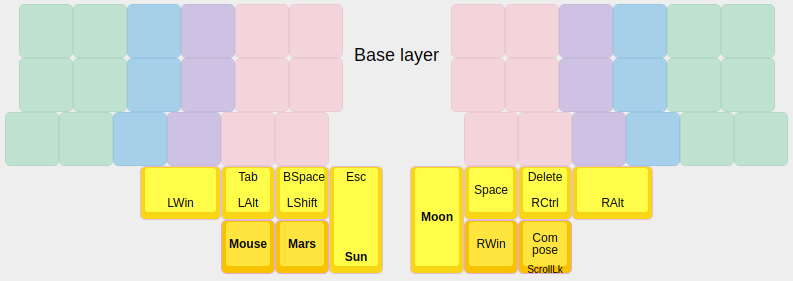
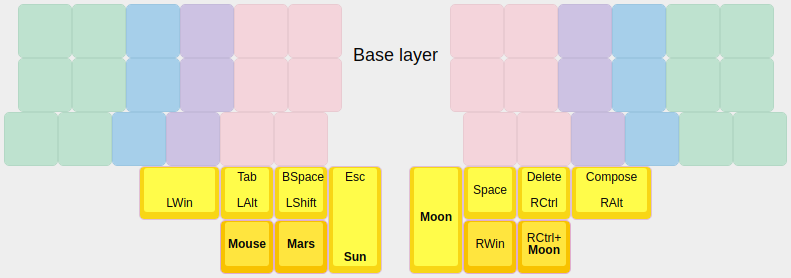
Make some layout tweaks
Accord for {} do not work in either languages. Another problem:
I type Shift to rapidly and Backspace enters as well. Fix both.

diff --git a/keymaps/default/chords.h b/keymaps/default/chords.h
@@ -1,87 +1,121 @@
 #ifndef KLAVAROG_CHORDGEN
 #define KLAVAROG_CHORDGEN
 enum combo_events {
-  combo_event_6520682086739457858, //tap_code16(RU_SHCH);
-  combo_event_2455770768751311551, //tap_code16(RU_JU);
-  combo_event_2114637924840119279, //tap_code16(KC_GRAVE);
-  combo_event_4643176359876124645, //tap_code16(RU_SH);
-  combo_event_2541380556355484790, //tap_code16(RU_JO);
-  combo_event_3759336099767838422, //tap_code16(KC_UNDS);
-  combo_event_4163067225626669251, //tap_code16(KC_UNDS);
+  combo_event_7221106290368032118, //tap_code16(RU_SHCH);
+  combo_event_5262084835235689220, //tap_code16(RU_JU);
+  combo_event_4866074708772856744, //tap_code16(KC_GRAVE);
+  combo_event_5182942735034104428, //tap_code16(RU_SH);
+  combo_event_4254755315356570871, //tap_code16(RU_JO);
+  combo_event_4625029284480707723, //tap_code16(KC_UNDS);
+  combo_event_6056952580134243859, //tap_code16(KK_LCBR);
+  combo_event_4456766911489843082, //tap_code16(KK_RCBR);
+  combo_event_5422050067313524820, //tap_code16(KC_UNDS);
+  combo_event_6934737794895982308, //tap_code16(KK_LCBR);
+  combo_event_2097007959599295537, //tap_code16(KK_RCBR);
   
 };
-const uint16_t PROGMEM combo_array_6520682086739457858[] = {
+const uint16_t PROGMEM combo_array_7221106290368032118[] = {
   RU_SOFT, RU_JA, COMBO_END
 };
-const uint16_t PROGMEM combo_array_2455770768751311551[] = {
+const uint16_t PROGMEM combo_array_5262084835235689220[] = {
   RU_JA, RU_U, COMBO_END
 };
-const uint16_t PROGMEM combo_array_2114637924840119279[] = {
+const uint16_t PROGMEM combo_array_4866074708772856744[] = {
   RU_A, RU_Y, COMBO_END
 };
-const uint16_t PROGMEM combo_array_4643176359876124645[] = {
+const uint16_t PROGMEM combo_array_5182942735034104428[] = {
   RU_Z, RU_M, COMBO_END
 };
-const uint16_t PROGMEM combo_array_2541380556355484790[] = {
+const uint16_t PROGMEM combo_array_4254755315356570871[] = {
   RU_F, RU_TS, COMBO_END
 };
-const uint16_t PROGMEM combo_array_3759336099767838422[] = {
+const uint16_t PROGMEM combo_array_4625029284480707723[] = {
   RU_JE, RU_O, RU_I, COMBO_END
 };
-const uint16_t PROGMEM combo_array_4163067225626669251[] = {
+const uint16_t PROGMEM combo_array_6056952580134243859[] = {
+  RU_D, RU_N, COMBO_END
+};
+const uint16_t PROGMEM combo_array_4456766911489843082[] = {
+  RU_SOFT, RU_JE, COMBO_END
+};
+const uint16_t PROGMEM combo_array_5422050067313524820[] = {
   KC_E, KC_O, KC_I, COMBO_END
 };
+const uint16_t PROGMEM combo_array_6934737794895982308[] = {
+  KC_D, KC_N, COMBO_END
+};
+const uint16_t PROGMEM combo_array_2097007959599295537[] = {
+  KC_F, KC_E, COMBO_END
+};
 combo_t key_combos[COMBO_COUNT] = {
-  [combo_event_6520682086739457858] = COMBO_ACTION(combo_array_6520682086739457858),
-  [combo_event_2455770768751311551] = COMBO_ACTION(combo_array_2455770768751311551),
-  [combo_event_2114637924840119279] = COMBO_ACTION(combo_array_2114637924840119279),
-  [combo_event_4643176359876124645] = COMBO_ACTION(combo_array_4643176359876124645),
-  [combo_event_2541380556355484790] = COMBO_ACTION(combo_array_2541380556355484790),
-  [combo_event_3759336099767838422] = COMBO_ACTION(combo_array_3759336099767838422),
-  [combo_event_4163067225626669251] = COMBO_ACTION(combo_array_4163067225626669251),
+  [combo_event_7221106290368032118] = COMBO_ACTION(combo_array_7221106290368032118),
+  [combo_event_5262084835235689220] = COMBO_ACTION(combo_array_5262084835235689220),
+  [combo_event_4866074708772856744] = COMBO_ACTION(combo_array_4866074708772856744),
+  [combo_event_5182942735034104428] = COMBO_ACTION(combo_array_5182942735034104428),
+  [combo_event_4254755315356570871] = COMBO_ACTION(combo_array_4254755315356570871),
+  [combo_event_4625029284480707723] = COMBO_ACTION(combo_array_4625029284480707723),
+  [combo_event_6056952580134243859] = COMBO_ACTION(combo_array_6056952580134243859),
+  [combo_event_4456766911489843082] = COMBO_ACTION(combo_array_4456766911489843082),
+  [combo_event_5422050067313524820] = COMBO_ACTION(combo_array_5422050067313524820),
+  [combo_event_6934737794895982308] = COMBO_ACTION(combo_array_6934737794895982308),
+  [combo_event_2097007959599295537] = COMBO_ACTION(combo_array_2097007959599295537),
   
 };
 void process_combo_event(uint8_t combo_index, bool pressed) {
   if (layer_state & (1 << CYRILLIC)) {
     switch (combo_index) {
-      case combo_event_6520682086739457858: {
+      case combo_event_7221106290368032118: {
         if (pressed) {
   tap_code16(RU_SHCH);
 
 }
 return;
 }
-    case combo_event_2455770768751311551: {
+    case combo_event_5262084835235689220: {
         if (pressed) {
   tap_code16(RU_JU);
 
 }
 return;
 }
-    case combo_event_2114637924840119279: {
+    case combo_event_4866074708772856744: {
         if (pressed) {
   tap_code16(KC_GRAVE);
 
 }
 return;
 }
-    case combo_event_4643176359876124645: {
+    case combo_event_5182942735034104428: {
         if (pressed) {
   tap_code16(RU_SH);
 
 }
 return;
 }
-    case combo_event_2541380556355484790: {
+    case combo_event_4254755315356570871: {
         if (pressed) {
   tap_code16(RU_JO);
 
 }
 return;
 }
-    case combo_event_3759336099767838422: {
+    case combo_event_4625029284480707723: {
         if (pressed) {
   tap_code16(KC_UNDS);
+
+}
+return;
+}
+    case combo_event_6056952580134243859: {
+        if (pressed) {
+  tap_code16(KK_LCBR);
+
+}
+return;
+}
+    case combo_event_4456766911489843082: {
+        if (pressed) {
+  tap_code16(KK_RCBR);
 
 }
 return;
@@ -92,9 +126,23 @@ return;
 }
  else if (1) {
     switch (combo_index) {
-      case combo_event_4163067225626669251: {
+      case combo_event_5422050067313524820: {
         if (pressed) {
   tap_code16(KC_UNDS);
+
+}
+return;
+}
+    case combo_event_6934737794895982308: {
+        if (pressed) {
+  tap_code16(KK_LCBR);
+
+}
+return;
+}
+    case combo_event_2097007959599295537: {
+        if (pressed) {
+  tap_code16(KK_RCBR);
 
 }
 return;

diff --git a/keymaps/default/keymap.c b/keymaps/default/keymap.c
@@ -73,18 +73,22 @@ bool process_record_user(uint16_t keycode, keyrecord_t *record) {
   KEYTIMER(M_SUN_ESC);
   KEYTIMER(M_RGUI);
   KEYTIMER(M_RCTL_DEL);
+  KEYTIMER(M_RCTL_MOON);
   switch (keycode) {
     /*       key         turn off       turn on   hold     tap */
-    KEYMATCH(M_LGUI,      _BV(CYRILLIC), 0,        KC_LGUI, 0);
-    KEYMATCH(M_LALT_TAB,  _BV(CYRILLIC), 0,        KC_LALT, KC_TAB);
-    KEYMATCH(M_LSFT_BSPC, 0,             0,        KC_LSFT, KC_BSPC);
-    KEYMATCH(M_SUN_ESC,   0,             _BV(SUN), 0,       KC_ESC);
-    KEYMATCH(M_RGUI,      _BV(CYRILLIC), 0,        KC_RGUI, 0);
-    KEYMATCH(M_RCTL_DEL,  _BV(CYRILLIC), 0,        KC_RCTL, KC_DEL);
+    KEYMATCH(M_LGUI,      _BV(CYRILLIC), 0,         KC_LGUI, 0);
+    KEYMATCH(M_LALT_TAB,  _BV(CYRILLIC), 0,         KC_LALT, KC_TAB);
+    KEYMATCH(M_LSFT_BSPC, 0,             0,         KC_LSFT, KC_BSPC);
+    KEYMATCH(M_SUN_ESC,   0,             _BV(SUN),  0,       KC_ESC);
+    KEYMATCH(M_RGUI,      _BV(CYRILLIC), 0,         KC_RGUI, 0);
+    KEYMATCH(M_RCTL_DEL,  _BV(CYRILLIC), 0,         KC_RCTL, KC_DEL);
+    KEYMATCH(M_RCTL_MOON, _BV(CYRILLIC), _BV(MOON), KC_RCTL, 0);
     // If Cyrillic is on, toggle Latin, type this, go back.
     // If Cyrillic isn't on, just type this.
     TYPE_IN_LATIN(LBRC);
     TYPE_IN_LATIN(RBRC);
+    TYPE_IN_LATIN(LCBR);
+    TYPE_IN_LATIN(RCBR);
     TYPE_IN_LATIN(PIPE);
     TYPE_IN_LATIN(TILD);
     TYPE_IN_LATIN(LT);
@@ -114,6 +118,7 @@ bool process_record_user(uint16_t keycode, keyrecord_t *record) {
     if (record->event.pressed) {
       bool should_toggle_back = layer_state & _BV(CYRILLIC);
       if (should_toggle_back) toggle_language();
+      tap_code16(KC_SLCK);
       tap_code16(KC_LT);
       tap_code16(KC_LT);
       if (should_toggle_back) toggle_language();
@@ -124,6 +129,7 @@ bool process_record_user(uint16_t keycode, keyrecord_t *record) {
     if (record->event.pressed) {
       bool should_toggle_back = layer_state & _BV(CYRILLIC);
       if (should_toggle_back) toggle_language();
+      tap_code16(KC_SLCK);
       tap_code16(KC_GT);
       tap_code16(KC_GT);
       if (should_toggle_back) toggle_language();

diff --git a/sagaris.h b/sagaris.h
@@ -16,6 +16,8 @@ enum custom_key {
     KK_EMOT,
     KK_LBRC,
     KK_RBRC,
+    KK_LCBR,
+    KK_RCBR,
     KK_PIPE,
     KK_TILD,
     KK_COLN,
@@ -37,12 +39,13 @@ enum custom_key {
     M_LSFT_BSPC,
     M_SUN_ESC,
     M_RGUI,
-    M_RCTL_DEL
+    M_RCTL_DEL,
+    M_RCTL_MOON
 } ;
 #define M_MOUSE MO(MOUSE)
 #define M_MARS MO(MARS)
 #define M_MOON MO(MOON)
-#define KK_COMP KC_SLCK
+#define M_ALT_CMP RALT_T(KC_SLCK)
 #define KK_TPRV LCTL(LSFT(KC_TAB))
 #define KK_TNXT LCTL(KC_TAB)
 #define KK_SASK LGUI(LSFT(KC_5))
@@ -67,6 +70,6 @@ LAYOUT(\
   k36, k37, k38, k39, k3A, k3B,\
   k26, k27, k28, k29, k2A, k2B,\
   k16, k17, k18, k19, k1A, k1B,\
-  KC_SPC, M_RCTL_DEL, KC_RALT,\
-  M_MOON, M_RGUI, KK_COMP\
+  KC_SPC, M_RCTL_DEL, M_ALT_CMP,\
+  M_MOON, M_RGUI, M_RCTL_MOON\
 )

diff --git a/config.h b/config.h
@@ -16,5 +16,5 @@
 #define DEBOUNCING_DELAY 5
 #define LOCKING_SUPPORT_ENABLE
 #define LOCKING_RESYNC_ENABLE
-#define COMBO_COUNT 7
+#define COMBO_COUNT 11
 #endif

diff --git a/src/Keymap.md b/src/Keymap.md
@@ -71,8 +71,6 @@ The Cyrillic chords are not declared in this file, see `chords.ini`.
 
 ![Mouse layer](pic/layer_mouse.png)
 
-Also note the `RESET` keycode that is not present in the picture.
-
 ```c
 [MOUSE] = FINGERS(
     XXXXXXX,    XXXXXXX, XXXXXXX, XXXXXXX, XXXXXXX, XXXXXXX,
@@ -137,18 +135,22 @@ bool process_record_user(uint16_t keycode, keyrecord_t *record) {
   KEYTIMER(M_SUN_ESC);
   KEYTIMER(M_RGUI);
   KEYTIMER(M_RCTL_DEL);
+  KEYTIMER(M_RCTL_MOON);
   switch (keycode) {
     /*       key         turn off       turn on   hold     tap */
-    KEYMATCH(M_LGUI,      _BV(CYRILLIC), 0,        KC_LGUI, 0);
-    KEYMATCH(M_LALT_TAB,  _BV(CYRILLIC), 0,        KC_LALT, KC_TAB);
-    KEYMATCH(M_LSFT_BSPC, 0,             0,        KC_LSFT, KC_BSPC);
-    KEYMATCH(M_SUN_ESC,   0,             _BV(SUN), 0,       KC_ESC);
-    KEYMATCH(M_RGUI,      _BV(CYRILLIC), 0,        KC_RGUI, 0);
-    KEYMATCH(M_RCTL_DEL,  _BV(CYRILLIC), 0,        KC_RCTL, KC_DEL);
+    KEYMATCH(M_LGUI,      _BV(CYRILLIC), 0,         KC_LGUI, 0);
+    KEYMATCH(M_LALT_TAB,  _BV(CYRILLIC), 0,         KC_LALT, KC_TAB);
+    KEYMATCH(M_LSFT_BSPC, 0,             0,         KC_LSFT, KC_BSPC);
+    KEYMATCH(M_SUN_ESC,   0,             _BV(SUN),  0,       KC_ESC);
+    KEYMATCH(M_RGUI,      _BV(CYRILLIC), 0,         KC_RGUI, 0);
+    KEYMATCH(M_RCTL_DEL,  _BV(CYRILLIC), 0,         KC_RCTL, KC_DEL);
+    KEYMATCH(M_RCTL_MOON, _BV(CYRILLIC), _BV(MOON), KC_RCTL, 0);
     // If Cyrillic is on, toggle Latin, type this, go back.
     // If Cyrillic isn't on, just type this.
     TYPE_IN_LATIN(LBRC);
     TYPE_IN_LATIN(RBRC);
+    TYPE_IN_LATIN(LCBR);
+    TYPE_IN_LATIN(RCBR);
     TYPE_IN_LATIN(PIPE);
     TYPE_IN_LATIN(TILD);
     TYPE_IN_LATIN(LT);
@@ -178,6 +180,7 @@ bool process_record_user(uint16_t keycode, keyrecord_t *record) {
     if (record->event.pressed) {
       bool should_toggle_back = layer_state & _BV(CYRILLIC);
       if (should_toggle_back) toggle_language();
+      tap_code16(KC_SLCK);
       tap_code16(KC_LT);
       tap_code16(KC_LT);
       if (should_toggle_back) toggle_language();
@@ -188,6 +191,7 @@ bool process_record_user(uint16_t keycode, keyrecord_t *record) {
     if (record->event.pressed) {
       bool should_toggle_back = layer_state & _BV(CYRILLIC);
       if (should_toggle_back) toggle_language();
+      tap_code16(KC_SLCK);
       tap_code16(KC_GT);
       tap_code16(KC_GT);
       if (should_toggle_back) toggle_language();

diff --git a/src/Keyboard.md b/src/Keyboard.md
@@ -39,6 +39,9 @@ Processing is done in [Keymap.md](Keymap.md).
 - `KK_LBRC`
 - `KK_RBRC`
   Square brackets
+- `KK_LCBR`
+- `KK_RCBR`
+  Curly braces.
 - `KK_PIPE`
 - `KK_TILD`
 - `KK_COLN`
@@ -61,14 +64,14 @@ Processing is done in [Keymap.md](Keymap.md).
 - `M_SUN_ESC`
 - `M_RGUI`
 - `M_RCTL_DEL`
+- `M_RCTL_MOON`
 
 ## defconst Other custom keys but without extra processing
 
 - `M_MOUSE MO(MOUSE)`
 - `M_MARS MO(MARS)`
 - `M_MOON MO(MOON)`
-- `KK_COMP KC_SLCK`
-  Compose key.
+- `M_ALT_CMP RALT_T(KC_SLCK)`
 - `KK_TPRV LCTL(LSFT(KC_TAB))`
   Previous tab hotkey used in many apps.
 - `KK_TNXT LCTL(KC_TAB)`
@@ -124,8 +127,8 @@ LAYOUT(
   k36, k37, k38, k39, k3A, k3B,
   k26, k27, k28, k29, k2A, k2B,
   k16, k17, k18, k19, k1A, k1B,
-  KC_SPC, M_RCTL_DEL, KC_RALT,
-  M_MOON, M_RGUI, KK_COMP
+  KC_SPC, M_RCTL_DEL, M_ALT_CMP,
+  M_MOON, M_RGUI, M_RCTL_MOON
 )
 ```
 

diff --git a/src/Config.md b/src/Config.md
@@ -29,7 +29,7 @@
 - `DEBOUNCING_DELAY 5`
 - `LOCKING_SUPPORT_ENABLE`
 - `LOCKING_RESYNC_ENABLE`
-- `COMBO_COUNT 7`
+- `COMBO_COUNT 11`
   To be added later.
 
 ## P.S.
